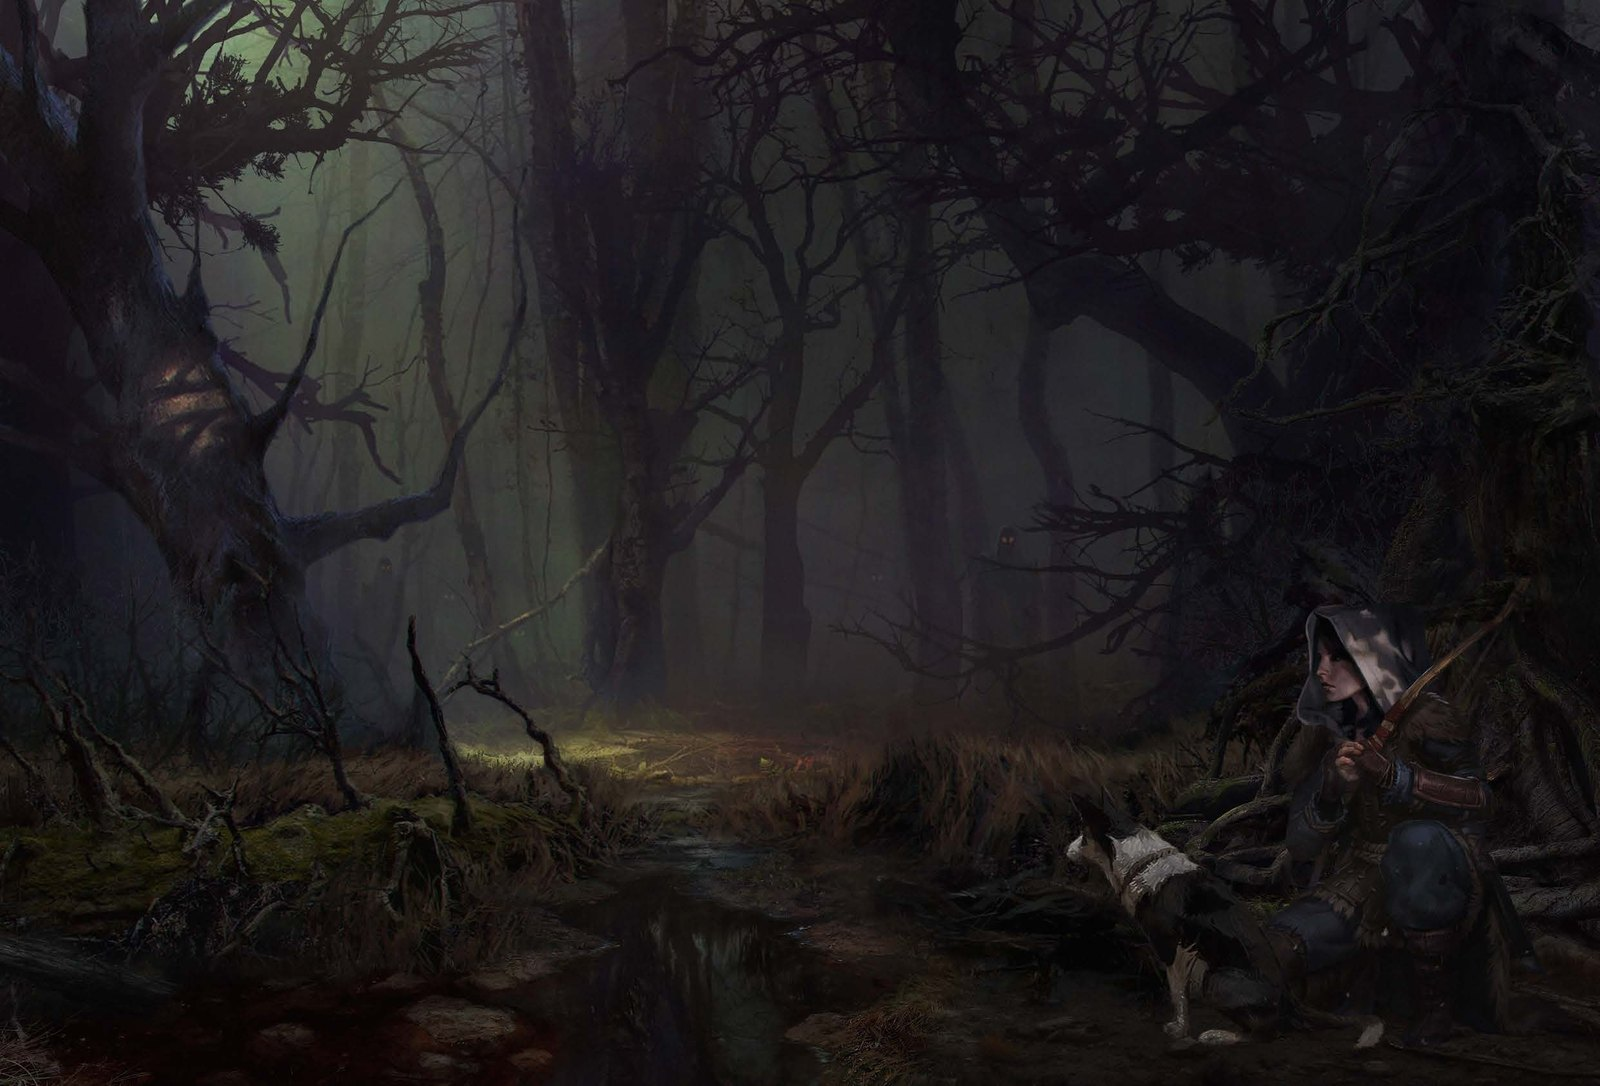
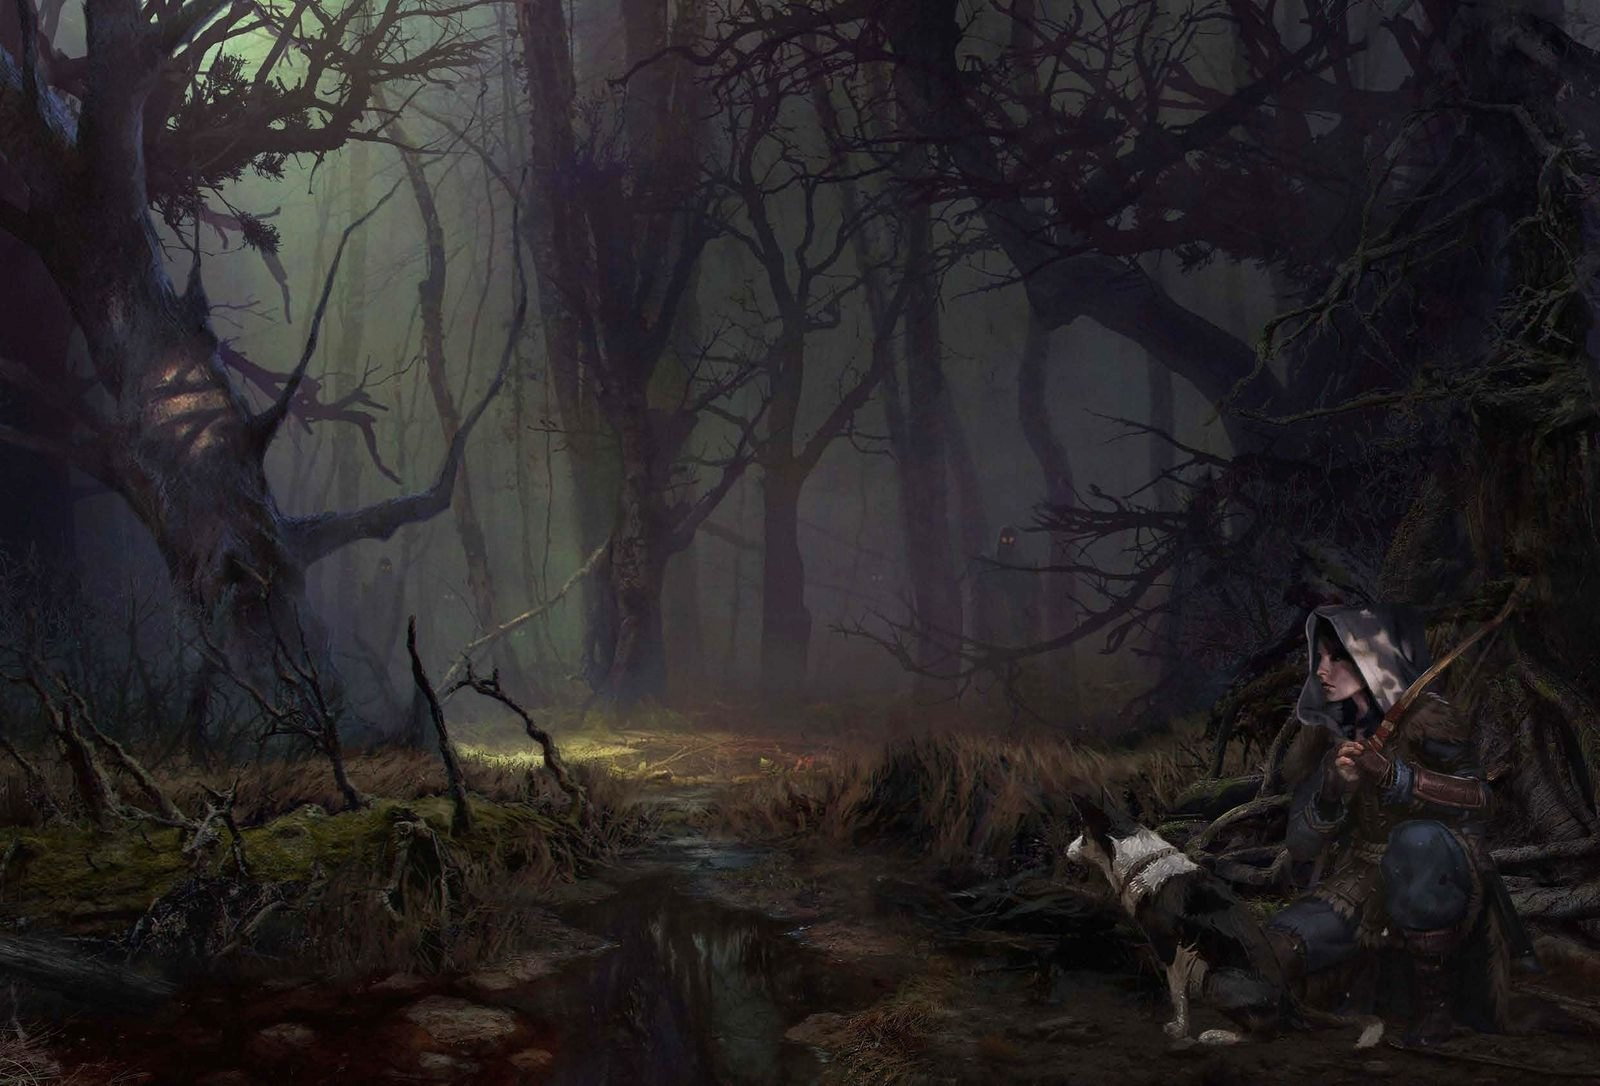
DDB: Embla-bildet bredt og beskåret på mobil og nettbrett
Claude-Session: https://claude.ai/code/session_01Go6ret7jCLgDqqds4EMTee

diff --git a/ddb.html b/ddb.html
@@ -65,7 +65,8 @@
   nav .in{display:flex;align-items:center;justify-content:space-between;height:62px;gap:18px}
   nav .logo{font-family:system-ui,sans-serif;font-weight:700;letter-spacing:2px;font-size:15px;color:var(--gold);text-decoration:none;display:inline-flex;align-items:center;gap:10px}
   nav .logo img{width:auto;height:34px}
-  @media(max-width:520px){nav .logo img{height:28px}nav .logo{gap:8px}}
+  @media(max-width:520px){
+    .split .tall img{aspect-ratio:1/1!important}nav .logo img{height:28px}nav .logo{gap:8px}}
   nav ul{display:flex;gap:26px;list-style:none;font-family:system-ui,sans-serif;font-size:14.5px}
   nav a{text-decoration:none;opacity:.88}
   nav a:hover{opacity:1;color:var(--gold)}
@@ -170,7 +171,8 @@
   @media(max-width:860px){.figs{grid-template-columns:repeat(4,1fr);gap:8px}.figs figcaption{font-size:14px}}
   .folk{display:grid;grid-template-columns:repeat(4,1fr);gap:18px;margin-top:36px}
   @media(max-width:860px){.folk{grid-template-columns:repeat(4,1fr)}}
-  @media(max-width:520px){.folk{grid-template-columns:repeat(2,1fr);gap:14px}}
+  @media(max-width:520px){
+    .split .tall img{aspect-ratio:1/1!important}.folk{grid-template-columns:repeat(2,1fr);gap:14px}}
   .folk figure{text-align:center}
   .folk img{width:100%;max-width:150px;aspect-ratio:1;object-fit:cover;border-radius:50%;border:3px solid var(--gold-dark);box-shadow:0 10px 24px rgba(0,0,0,.6);display:block;margin:0 auto;background:#000}
   .folk.foe img{border-color:var(--blood)}
@@ -193,7 +195,8 @@
     radial-gradient(circle at 50% 50%,#2b231d,#15110e);border:1px solid #3a2f28;overflow:hidden;box-shadow:inset 0 0 60px rgba(0,0,0,.7)}
   .tok{position:absolute;width:64px;height:64px;border-radius:50%;object-fit:cover;border:4px solid var(--blood);box-shadow:0 8px 18px rgba(0,0,0,.7)}
   .tok.s{border-color:#4f78ad;border-left-color:#c8322a;border-bottom-color:#c8322a}
-  @media(max-width:520px){.tok{width:48px;height:48px;border-width:3px}}
+  @media(max-width:520px){
+    .split .tall img{aspect-ratio:1/1!important}.tok{width:48px;height:48px;border-width:3px}}
   .board .lbl{position:absolute;left:12px;bottom:10px;font-family:system-ui,sans-serif;font-size:11px;letter-spacing:1.5px;text-transform:uppercase;color:#8f8878}
 
   /* SIGNUP */
@@ -209,7 +212,8 @@
   .bk{display:block;width:200px;margin:38px auto 0;border-radius:8px;overflow:hidden;box-shadow:0 10px 30px rgba(0,0,0,.5)}
   .bk img{width:100%;height:auto;display:block}
   .by{display:flex;flex-wrap:wrap;align-items:center;justify-content:center;gap:6px 14px;margin-top:34px;font-family:system-ui,sans-serif;font-size:13.5px;color:#8f8878}
-  @media(max-width:520px){.by .dot{display:none}.by{flex-direction:column;gap:4px}}
+  @media(max-width:520px){
+    .split .tall img{aspect-ratio:1/1!important}.by .dot{display:none}.by{flex-direction:column;gap:4px}}
   .by b{color:var(--bone);font-weight:600}
 
   .wide{position:relative;border-top:1px solid #2a2622;border-bottom:1px solid #2a2622;background:#000;max-width:1400px;margin:0 auto}
@@ -225,9 +229,11 @@
   .figs img{aspect-ratio:346/800;object-fit:cover}
   @media(max-width:860px){
     .figs{grid-template-columns:repeat(4,minmax(0,1fr))}
-    .split .tall img{aspect-ratio:4/3;width:100%;max-height:none;object-position:50% 30%}
+    .split .tall picture{display:block}
+    .split .tall img{aspect-ratio:4/3!important;width:100%!important;height:auto;max-height:none!important;object-position:92% 80%}
   }
   @media(max-width:520px){
+    .split .tall img{aspect-ratio:1/1!important}
     nav .in{height:56px;gap:10px}
     nav .logo{font-size:13px;letter-spacing:1.5px}
     nav .btn.sm{font-size:13px;padding:10px 16px}
@@ -277,7 +283,7 @@
       <p>Innerst i hulen kan det ligge en side fra De Dødes Bok, men også en Vokter som verner om den. Søkerne er vanlige folk som har sett litt for mye til å snu. De klarer seg med list, kunnskap og litt magi, og de som kommer hjem igjen, har med seg noe de aldri får glemt.</p>
     </div>
     <figure class="tall">
-      <img src="/img/ddb/ill-embla-tall.jpg" alt="Embla med bue og hunden hennes i en mørk skog, fra starten av Del I" width="560" height="1049">
+      <picture><source media="(max-width:860px)" srcset="/img/ddb/ill-embla.jpg"><img src="/img/ddb/ill-embla-tall.jpg" alt="Embla med bue og hunden hennes i en mørk skog, fra starten av Del I" width="560" height="1049"></picture>
     </figure>
   </div>
 </div></section>
